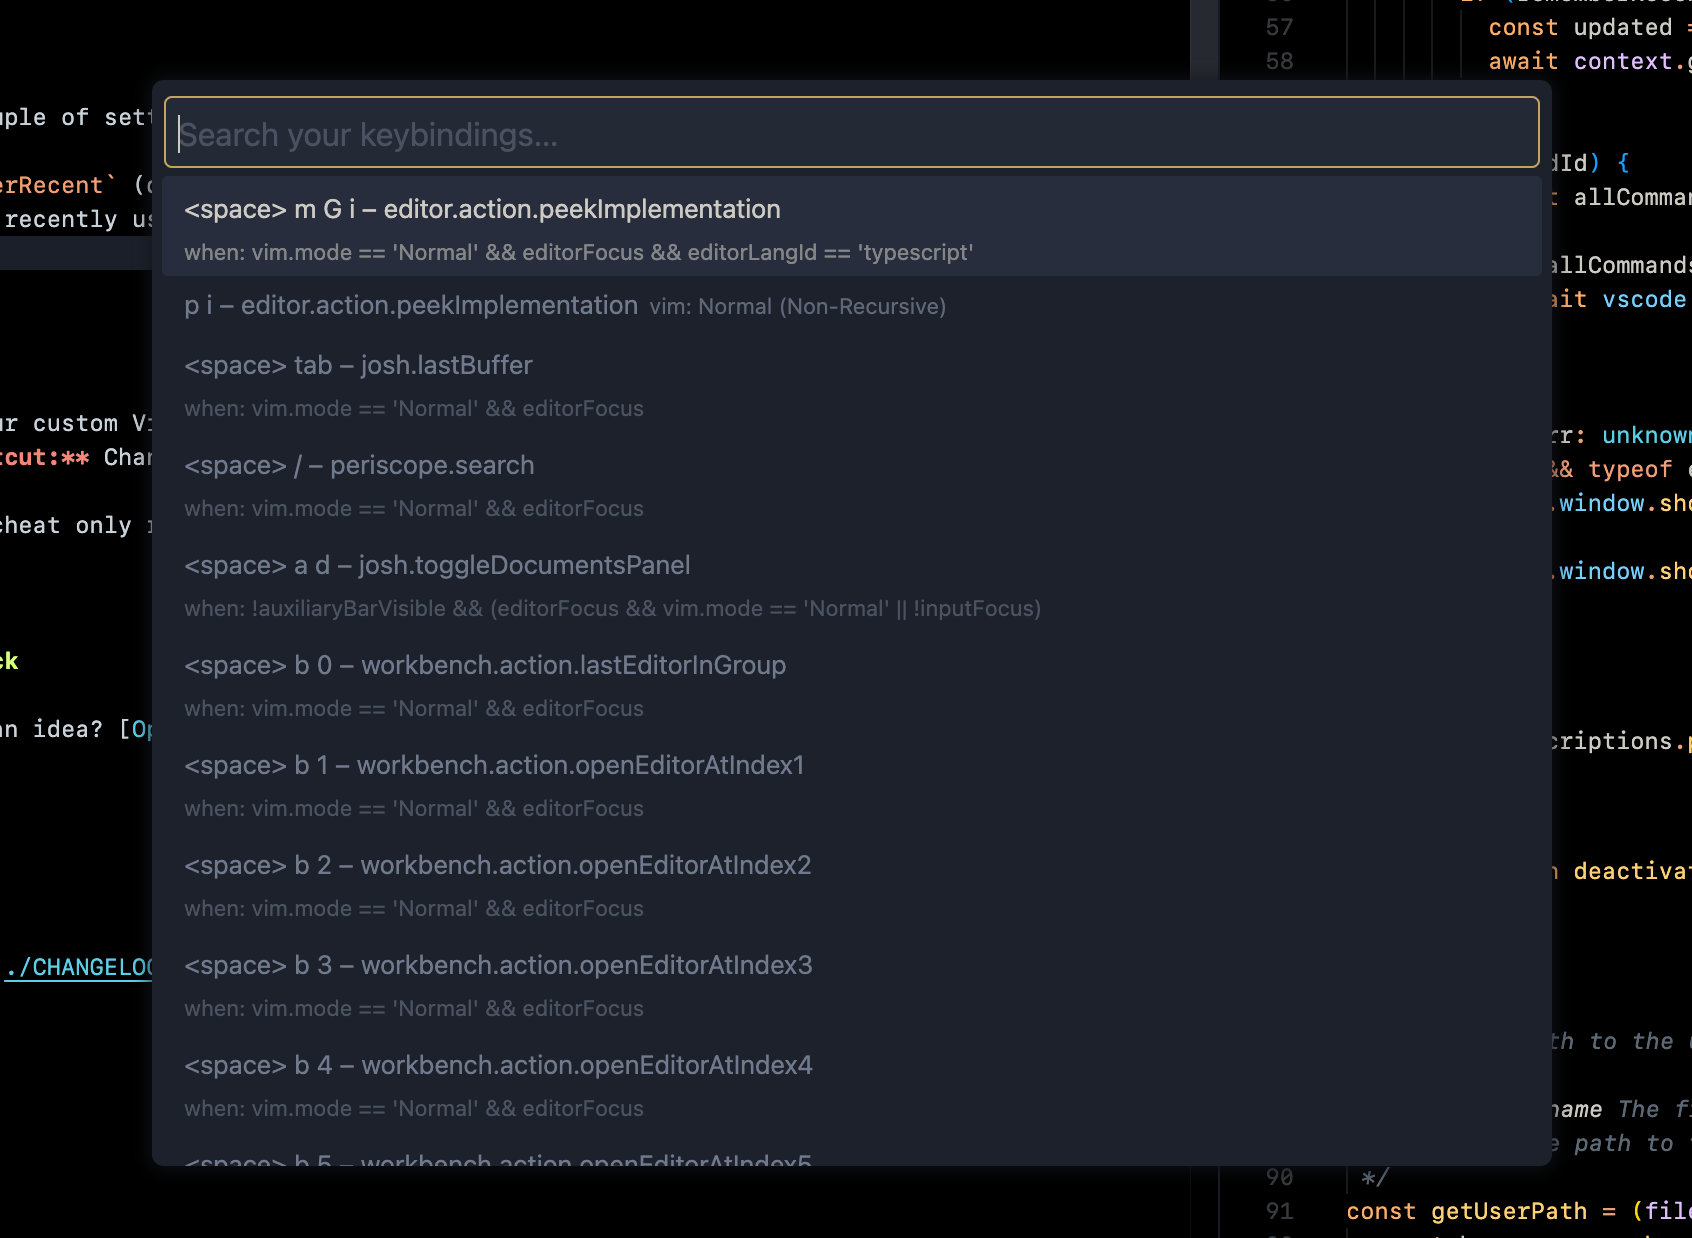
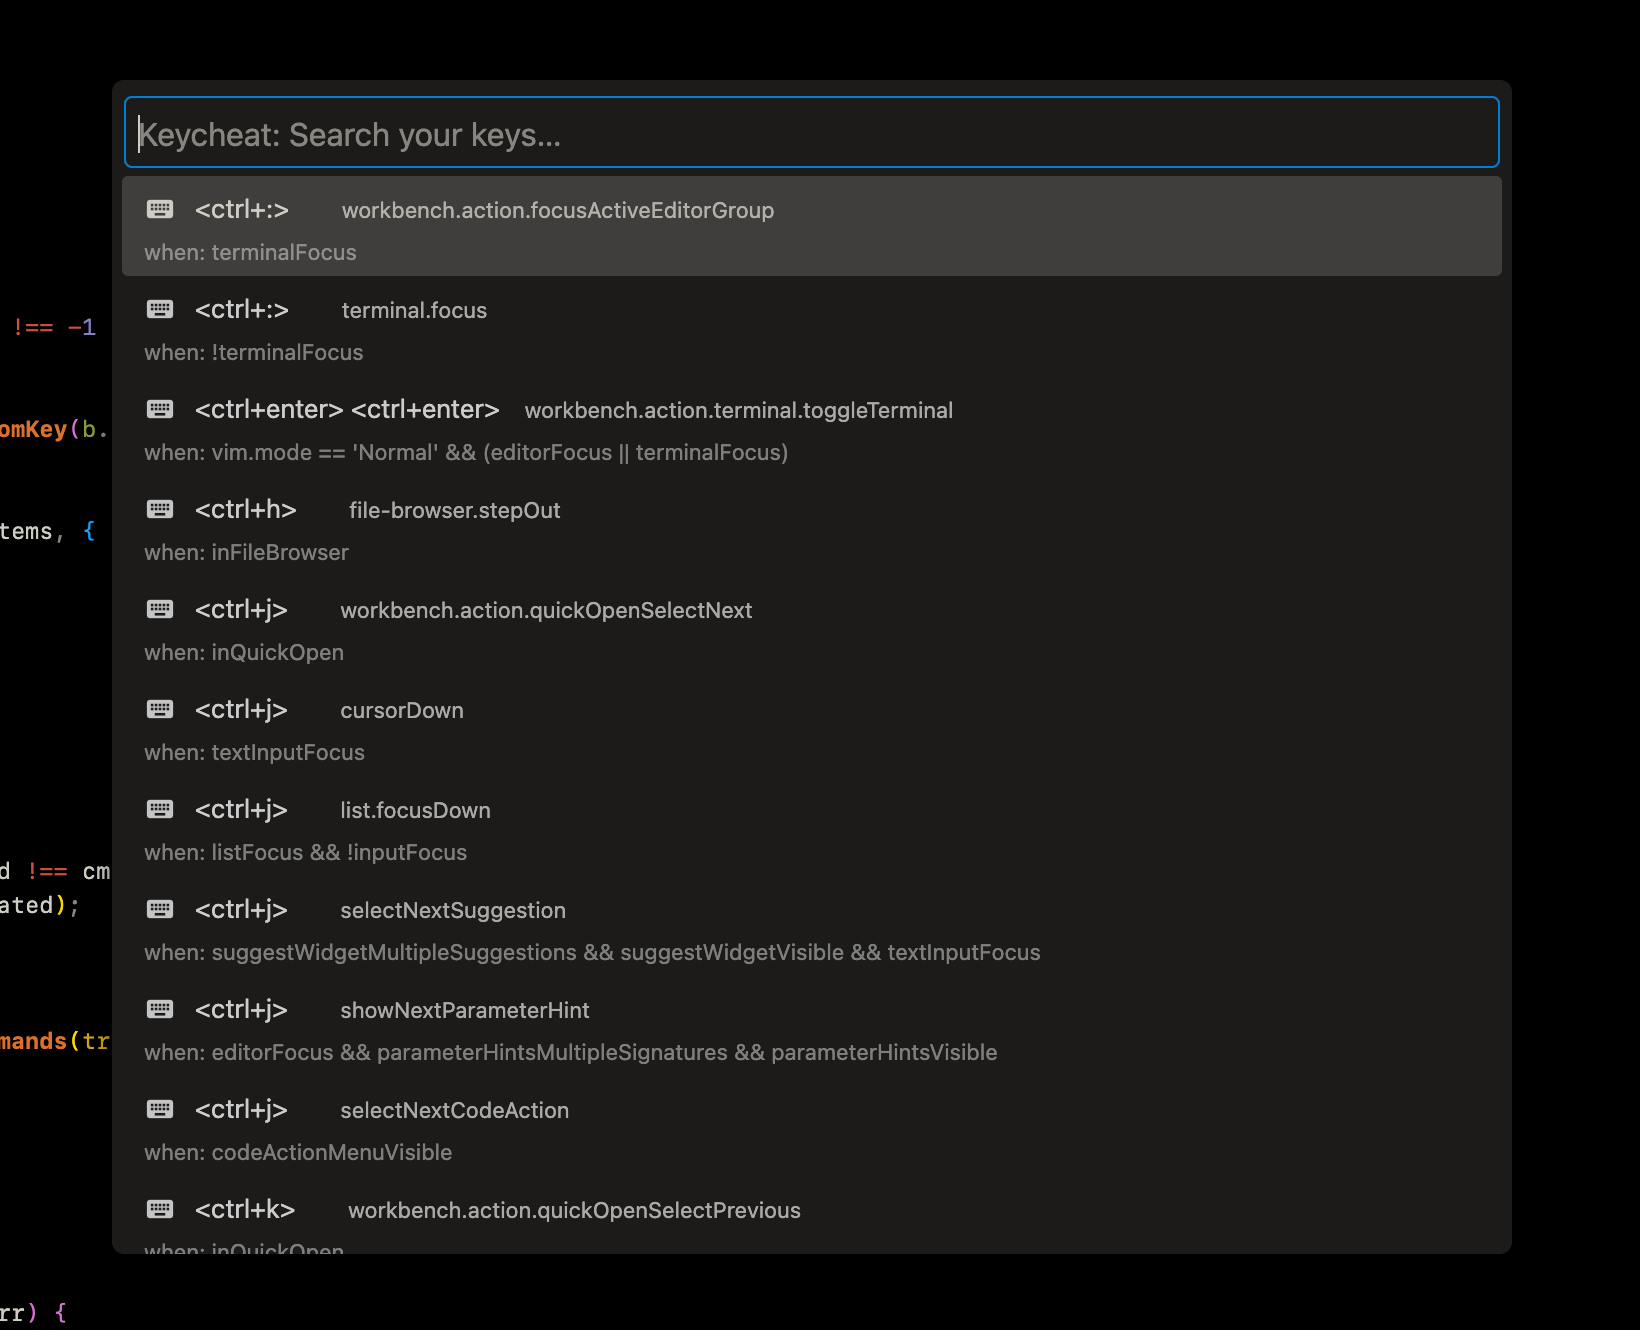
0.0.1 - label support

diff --git a/src/extension.ts b/src/extension.ts
@@ -7,6 +7,8 @@ import * as vscode from 'vscode';
 const RECENT_KEY = 'keycheat.recentCommands';
 const MAX_RECENT = 15;
 
+type KeycheatItem = vscode.QuickPickItem & { cmdId?: string };
+
 export function activate(context: vscode.ExtensionContext): void {
   const disposable = vscode.commands.registerCommand('keycheat.show', async () => {
     try {
@@ -19,10 +21,10 @@ export function activate(context: vscode.ExtensionContext): void {
       const keybindings = parse(keybindingsRaw);
       const settings = parse(settingsRaw);
 
-      let items: vscode.QuickPickItem[] = [
+      let items: KeycheatItem[] = [
         ...parseVSCodeKeybindings(keybindings),
-        ...parseVimKeybindings(settings, 'vim.normalModeKeyBindings',            'Normal'),
-        ...parseVimKeybindings(settings, 'vim.normalModeKeyBindingsNonRecursive','Normal (Non-Recursive)'),
+        ...parseVimKeybindings({ settings, key: 'vim.normalModeKeyBindings', modeLabel: 'vim: normal' }),
+        ...parseVimKeybindings({ settings, key: 'vim.normalModeKeyBindingsNonRecursive', modeLabel: 'vim: normal (non-recursive)' }),
       ];
 
       let recent: string[] = [];
@@ -32,10 +34,8 @@ export function activate(context: vscode.ExtensionContext): void {
       }
 
       items.sort((a, b) => {
-        const aCmd = extractCommandId(a.label);
-        const bCmd = extractCommandId(b.label);
-        const aIdx = recent.indexOf(aCmd);
-        const bIdx = recent.indexOf(bCmd);
+        const aIdx = recent.indexOf(a.cmdId || '');
+        const bIdx = recent.indexOf(b.cmdId || '');
 
         if (aIdx !== -1 || bIdx !== -1) {
           return (aIdx !== -1 ? aIdx : MAX_RECENT) - (bIdx !== -1 ? bIdx : MAX_RECENT);
@@ -45,13 +45,13 @@ export function activate(context: vscode.ExtensionContext): void {
       });
 
       const selected = await vscode.window.showQuickPick(items, {
-        placeHolder: 'Search your keybindings…',
+        placeHolder: 'Keycheat: Search your keys…',
         matchOnDescription: true,
-        matchOnDetail:      true,
+        matchOnDetail: true
       });
 
       if (selected) {
-        const cmdId = extractCommandId(selected.label);
+        const cmdId = selected.cmdId;
 
         if (rememberRecent && cmdId) {
           const updated = [cmdId, ...recent.filter(id => id !== cmdId)].slice(0, MAX_RECENT);
@@ -80,14 +80,6 @@ export function activate(context: vscode.ExtensionContext): void {
 
 export function deactivate(): void {}
 
-
-
-/**
- * Gets the path to the user directory for the current platform
- * 
- * @param filename The filename to get the path for
- * @returns The path to the user directory
- */
 const getUserPath = (filename: string): string => {
   const home    = os.homedir();
   const isWin   = process.platform === 'win32';
@@ -101,7 +93,6 @@ const getUserPath = (filename: string): string => {
 
   if (isWin) {
     const appData = process.env.APPDATA || path.join(home, 'AppData', 'Roaming');
-
     return path.join(appData, codeName, 'User', filename);
   }
 
@@ -118,22 +109,26 @@ interface VSCodeKeybinding {
   when?: string;
 }
 
-/**
- * Parses VSCode keybindings into QuickPickItems
- * 
- * @param data The data to parse
- * @returns The parsed keybindings
- */
-const parseVSCodeKeybindings = (data: unknown): vscode.QuickPickItem[] => {
+const parseVSCodeKeybindings = (data: unknown): KeycheatItem[] => {
   const arr = Array.isArray(data) ? data as VSCodeKeybinding[] : [];
 
   return arr
     .filter((e): e is VSCodeKeybinding => typeof e.key === 'string' && typeof e.command === 'string')
-    .map(e => ({
-      label: `${formatKeyLabel(e.key)} – ${e.command}`,
-      description: '',
-      detail: e.when ? `when: ${e.when}` : '',
-    }));
+    .filter((e) => !e.command.startsWith('-'))
+    .map(e => {
+      const keyLabel = padRight(formatKeyLabel(e.key), 15);
+      const cmd = e.command;
+      const userLabel = (e as any).label as string | undefined;
+      const detail = e.when ? `when: ${e.when}` : '';
+
+      return {
+        label: keyLabel,
+        description: userLabel ? `${userLabel} - ${cmd}` : cmd,
+        detail,
+        iconPath: new vscode.ThemeIcon('keyboard'),
+        cmdId: cmd
+      };
+    });
 };
 
 interface VimKeybindingEntry {
@@ -141,108 +136,99 @@ interface VimKeybindingEntry {
   commands: string[];
 }
 
-/**
- * Parses Vim keybindings into QuickPickItems
- * 
- * @param settings The settings to parse
- * @param key The key to parse
- * @param modeLabel The mode label to use
- * @returns The parsed keybindings
- */
-const parseVimKeybindings = (settings: Record<string, unknown>, key: string, modeLabel: string): vscode.QuickPickItem[] => {
-  const entries = Array.isArray(settings[key]) ? settings[key] as VimKeybindingEntry[] : [];
-  const filterFn = (entry: VimKeybindingEntry): entry is VimKeybindingEntry => {
-    const hasValidBefore = Array.isArray(entry.before);
-    const hasValidCommands = Array.isArray(entry.commands);
+interface VimKeybindingsParams {
+  settings: Record<string, unknown>,
+  key: string,
+  modeLabel: string
+}
 
-    return hasValidBefore && hasValidCommands;
-  };
-  const mapFn = (entry: VimKeybindingEntry) => ({
-      label: `${formatKeyLabel(entry.before.join(' '))} – ${entry.commands.join(', ')}`,
-      description: `vim: ${modeLabel}`,
-      detail: ''
-  });
+const parseVimKeybindings = (parms: VimKeybindingsParams): KeycheatItem[] => {
+  const { settings, key, modeLabel } = parms;
+  const entries = Array.isArray(settings[key]) ? settings[key] as VimKeybindingEntry[] : [];
 
   return entries
-    .filter(filterFn)
-    .map(mapFn);
+    .filter(entry => Array.isArray(entry.before) && Array.isArray(entry.commands))
+    .map(entry => {
+      const keyLabel = padRight(formatKeyLabel(entry.before.join(' ')), 8);
+      const commandLabel = entry.commands.join(', ');
+      const userLabel = (entry as any).label as string | undefined;
+      const detail = modeLabel;
+
+      return {
+        label: keyLabel,
+        description: userLabel ? `${userLabel} - ${commandLabel}` : commandLabel,
+        detail,
+        iconPath: new vscode.ThemeIcon('chevron-right'),
+        cmdId: entry.commands[0]
+      };
+    });
 };
 
-/**
- * Extracts the command ID from a keybinding label
- * 
- * @param label The keybinding label to extract the command ID from
- * @returns The command ID from the keybinding label
- */
-const extractCommandId = (label: string): string => {
-  return label.split('–')[1]?.trim() || '';
-};
-
-/**
- * Extracts the group from a keybinding label
- * 
- * @param label The keybinding label to extract the group from
- * @returns The group from the keybinding label
- */
 const groupFromKey = (label: string): string => {
-  const raw = label.split('–')[0].trim();
+  const raw = label.trim();
 
-  if (raw.startsWith('<space>')) {
-    return '<space>';
-  }
-
-  if (raw.startsWith('Ctrl')) {
-    return 'Ctrl';
-  }
-
-  if (raw.startsWith('g')) {
-    return 'g';
-  }
+  if (raw.startsWith('<space>')) return '<space>';
+  if (raw.startsWith('Ctrl')) return 'Ctrl';
+  if (raw.startsWith('g')) return 'g';
 
   return raw.split(' ')[0];
 };
 
-/**
- * Formats a raw keybinding string into a human-readable format
- * 
- * @param raw The raw keybinding string to format.
- * @returns The formatted keybinding string.
- */
+const padRight = (str: string, minLen: number): string => {
+  const extra = str.length >= minLen ? 2 : minLen - str.length;
+  return str + ' '.repeat(extra);
+};
+
 const formatKeyLabel = (raw: string): string => {
-  return raw.split(' ')
+  const label = raw.split(' ')
     .map(k => {
-      if (k === 'space') {
-        return '<space>';
-      }
-
-      if (k.startsWith('space+')) {
-        return '<space>' + prettyKey(k.slice(6));
-      }
-
+      if (k === 'space') return '<space>';
+      if (k.startsWith('space+')) return '<space> ' + prettyKey(k.slice(6));
       return prettyKey(k);
     })
     .join(' ');
+
+  return ` ${label}`;
 };
 
-/**
- * Formats a raw keybinding string into a human-readable format
- * 
- * @param k The raw keybinding string to format.
- * @returns The formatted keybinding string.
- */
+const shiftedSymbols: Record<string, string> = {
+  '1': '!',
+  '2': '@',
+  '3': '#',
+  '4': '$',
+  '5': '%',
+  '6': '^',
+  '7': '&',
+  '8': '*',
+  '9': '(',
+  '0': ')',
+  '`': '~',
+  '-': '_',
+  '=': '+',
+  '[': '{',
+  ']': '}',
+  '\\': '|',   // ← fixed this line
+  ';': ':',
+  "'": '"',
+  ',': '<',
+  '.': '>',
+  '/': '?'
+};
+
 const prettyKey = (k: string): string => {
   if (k.startsWith('shift+')) {
     const char = k.slice(6);
-
-    if (/^[a-z]$/.test(char)) {
-      return char.toUpperCase();
-    }
+    if (/^[a-z]$/.test(char)) return char.toUpperCase();
+    if (shiftedSymbols[char]) return shiftedSymbols[char];
+    return char;
   }
 
   if (k.startsWith('ctrl+')) {
     const char = k.slice(5);
-
-    return `Ctrl+${char.length === 1 ? char.toUpperCase() : char}`;
+    const displayChar = shiftedSymbols[char] || char;
+    return `<ctrl+${displayChar}>`;
+  } else if (k.toLowerCase().match('ctrl|alt|shift|meta')) {
+    return `<${k}>`;
   }
 
   return k;

diff --git a/README.md b/README.md
@@ -11,6 +11,7 @@ Keycheat is your personal command cheat sheet for VS Code. Hit a shortcut, get a
 - **Search Everything:** Fuzzy-search all your custom keybindings (and Vim bindings if you use them)
 - **Recent Commands:** Remembers what you use most and floats them to the top
 - **Works with VSCodeVim:** Shows your Vim mode custom bindings too
+- **Custom Labels:** Optionally add a `label` property to your keybindings or Vim bindings for descriptive names—these will be shown in the Keycheat picker.
 - **Zero Setup:** Just install and go. It reads your existing keybindings and settings.
 - **Cross-Platform:** Mac, Windows, Linux—no worries
 
@@ -21,6 +22,7 @@ Keycheat is your personal command cheat sheet for VS Code. Hit a shortcut, get a
    - Press `Ctrl+Alt+K` (or use the Command Palette: `Keycheat: Show Key Bindings`)
 2. **Search**
    - Start typing to filter through your keybindings
+   - If a keybinding or Vim binding has a `label` property, it will be shown before the command name for easier identification.
 3. **Hit Enter**
    - Run the command instantly!
 
@@ -29,6 +31,34 @@ Keycheat adds a couple of settings (totally optional):
 
 - `keycheat.rememberRecent` (default: `true`):
   - Remembers your recently used commands and shows them first
+
+## Example: Using the `label` Property
+
+You can add a `label` to your keybindings or Vim bindings for a more descriptive display in Keycheat.
+
+**VSCode Keybindings Example (`keybindings.json`):**
+```json
+{
+  "key": "ctrl+shift+p",
+  "command": "workbench.action.showCommands",
+  "label": "Show Command Palette"
+}
+```
+
+**VSCodeVim Example (`settings.json`):**
+```json
+{
+  "vim.normalModeKeyBindingsNonRecursive": [
+    {
+      "before": ["space", "f"],
+      "commands": ["workbench.action.quickOpen"],
+      "label": "Quick File Open"
+    }
+  ]
+}
+```
+
+The `label` will appear alongside the keybinding in the Keycheat picker, making it easier to recognize your custom shortcuts!
 
 ## Pro Tips
 

diff --git a/CHANGELOG.md b/CHANGELOG.md
@@ -2,7 +2,8 @@
 
 All notable changes to the "keycheat" extension will be documented in this file.
 
-## [0.0.1] - 2025-06-25
+## [0.0.2] - 2025-06-26
+- Optional `label` property support for both VSCode keybindings and Vim bindings. If present, the label is shown in the Keycheat picker for easier identification of your custom shortcuts.
 
-### Added
+## [0.0.1] - 2025-06-25
 - Initial release
